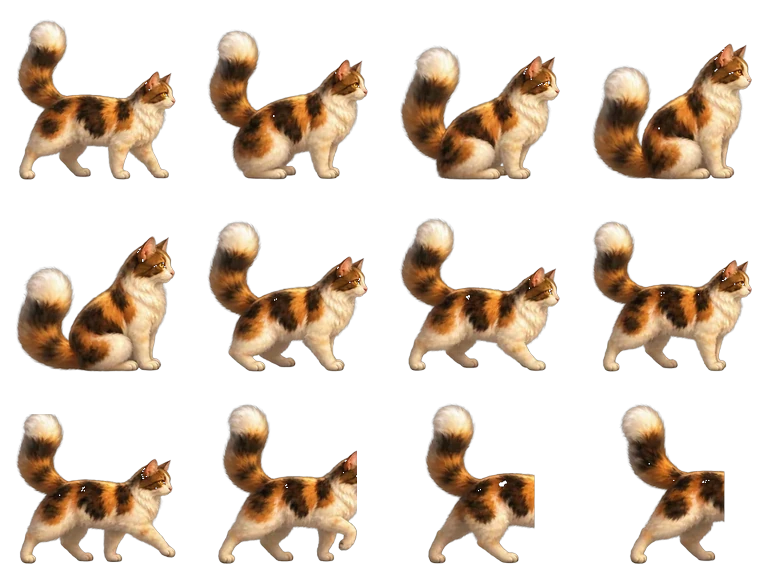
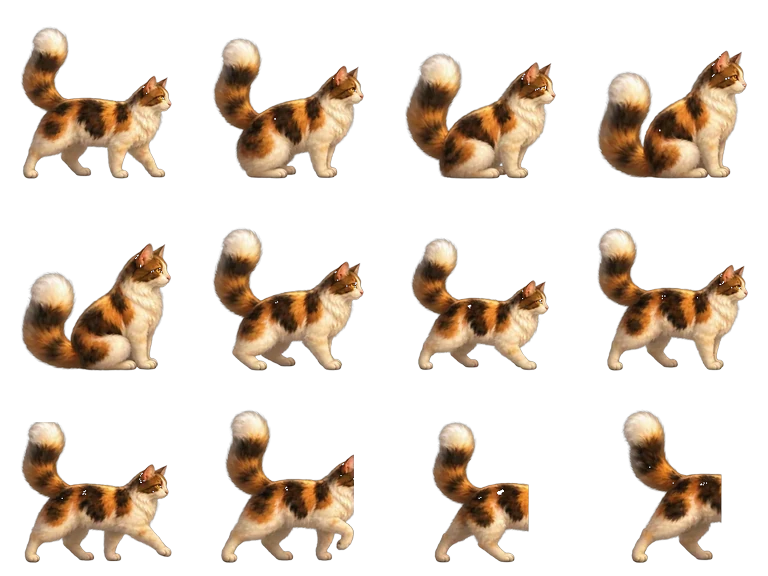
Give the cat one scale, a stride that grips, and less to do
Four complaints, the first of them mine to answer for.

The size changed with the pose because my previous repack fitted every
frame to 84% of its own cell. A curled sleeping cat is naturally short;
filling the cell made it as tall as a standing one, so every change of
pose was a change of size. The source art has the same flaw more gently -
each pose drawn to fill its frame, widths between 88% and 95% whatever the
cat was doing.

Repacked from the originals at one scale for every frame in every sheet,
sized so the tallest pose fits, all on a common baseline. Heights now run
50.9% for a curled sleep to 77% for a doorway entrance: the poses differ
because the cat does, not because the packing does.

The walk slid because the legs ran on a clock and the body did not. Frames
advanced on elapsed time while travel speed varies, and the approach slows
near an anchor - so the feet kept stepping while the cat barely moved. The
frame is driven by distance now: one stride is always 1.11% of ground at
any speed.

It also moved too fast for the scene. Crossing the yard is 9.1s rather
than 5.4. And it had too much to do: eight resting behaviours, most of
them illegible at this size, down to four - sit, loaf, curl-sleep, groom.
The five places per scene stay, because places are not actions.

Smaller too, 5.2-6.8% of the scene rather than 6.4-8.6%, so it sits in the
picture rather than on it.

356 tests, 0 failures. Cache lantern-alley-v165.

diff --git a/home-pet.js b/home-pet.js
@@ -12,19 +12,18 @@
    * between two anchors can leave the ground. */
   var SCENES = {
     yard: [
-      {id:"yard-door", x:50, y:59, kind:"door", behaviors:["look"]},
-      {id:"yard-shade", x:17, y:72, kind:"shade", behaviors:["loaf","curl-sleep","side-sleep"]},
-      {id:"yard-rock", x:38, y:75, kind:"rock", behaviors:["sniff","sit","look"]},
-      {id:"yard-path", x:55, y:80, kind:"path", behaviors:["sit","groom"]},
-      {id:"yard-veranda", x:76, y:64, kind:"veranda", behaviors:["loaf","groom","look"]},
-      {id:"yard-play", x:64, y:74, kind:"garden", behaviors:["play","sniff","stretch"]}
+      {id:"yard-door", x:50, y:59, kind:"door", behaviors:["sit"]},
+      {id:"yard-shade", x:17, y:72, kind:"shade", behaviors:["curl-sleep","loaf"]},
+      {id:"yard-rock", x:38, y:75, kind:"rock", behaviors:["sit","groom"]},
+      {id:"yard-path", x:55, y:80, kind:"path", behaviors:["sit","loaf"]},
+      {id:"yard-veranda", x:76, y:64, kind:"veranda", behaviors:["loaf","groom"]}
     ],
     interior: [
-      {id:"interior-door", x:50, y:74, kind:"door", behaviors:["look"]},
-      {id:"interior-cushion", x:36, y:83, kind:"furniture", behaviors:["curl-sleep","side-sleep","loaf"]},
-      {id:"interior-window", x:22, y:78, kind:"window", behaviors:["look","groom"]},
-      {id:"interior-center", x:55, y:88, kind:"tatami", behaviors:["sit","play","stretch"]},
-      {id:"interior-alcove", x:73, y:79, kind:"alcove", behaviors:["sniff","sit"]}
+      {id:"interior-door", x:50, y:74, kind:"door", behaviors:["sit"]},
+      {id:"interior-cushion", x:36, y:83, kind:"furniture", behaviors:["curl-sleep","loaf"]},
+      {id:"interior-window", x:22, y:78, kind:"window", behaviors:["sit","groom"]},
+      {id:"interior-center", x:55, y:88, kind:"tatami", behaviors:["loaf","groom"]},
+      {id:"interior-alcove", x:73, y:79, kind:"alcove", behaviors:["sit"]}
     ]
   };
 
@@ -54,8 +53,12 @@
    * the back to y=88 at the front; this maps that onto the approved 6-9% band
    * and clamps, so a position outside the authored range cannot produce an
    * absurd size. */
-  var PET_MIN_WIDTH = 6.4;
-  var PET_MAX_WIDTH = 8.6;
+  /* One stride of the eight-frame cycle, in scene-percent. Smaller means the
+   * legs work harder over the same ground. */
+  var STRIDE = 1.15;
+
+  var PET_MIN_WIDTH = 5.2;
+  var PET_MAX_WIDTH = 6.8;
   var PET_NEAR_Y = 90;
   var PET_FAR_Y = 58;
 
@@ -117,7 +120,7 @@
       * anchor instead of hitting it. No extra state: the distance left is the
       * only input. */
     var approach = Math.min(1, distance / 14);
-    var travel = elapsed * (0.0016 + 0.0044 * approach);
+    var travel = elapsed * (0.0009 + 0.0022 * approach);
     if(distance <= travel || distance === 0){
       next.x = target.x;
       next.y = target.y;
@@ -130,8 +133,15 @@
     next.x += dx / distance * travel;
     next.y += dy / distance * travel;
     next.behavior = "walk";
-    // 90ms was eleven poses a second for a walking cat. 160 is a walk.
-    next.frame = Math.floor(next.clock / 160) % 8;
+    /* The stride follows the ground, not a clock.
+     *
+     * Frames advanced on elapsed time, so the legs cycled at a fixed rate while
+     * the body moved at a variable one - and since the approach slows near an
+     * anchor, the feet kept stepping while the cat barely moved. That mismatch
+     * is what reads as sliding. Tying the frame to distance covered means one
+     * stride is always the same distance travelled, at any speed. */
+    next.walked = (next.walked || 0) + travel;
+    next.frame = Math.floor(next.walked / STRIDE) % 8;
     return next;
   }
 

diff --git a/index.html b/index.html
@@ -16,7 +16,7 @@
 <link rel="preconnect" href="https://fonts.googleapis.com">
 <link rel="preconnect" href="https://fonts.gstatic.com" crossorigin>
 <link href="https://fonts.googleapis.com/css2?family=Shippori+Mincho:wght@400;600;800&family=Zen+Maru+Gothic:wght@400;500;700&display=swap" rel="stylesheet">
-<link rel="stylesheet" href="styles.css?v=164">
+<link rel="stylesheet" href="styles.css?v=165">
 </head>
 <body>
 
@@ -215,31 +215,31 @@
   <footer class="credits">Lantern Alley &middot; a small Japanese story-walk</footer>
 </div>
 
-<script src="curriculum-catalog.js?v=164"></script>
-<script src="learning-content.js?v=164"></script>
-<script src="review-engine.js?v=164"></script>
-<script src="learning-progress.js?v=164"></script>
-<script src="learning-economy.js?v=164"></script>
-    <script src="learning-gloss.js?v=164"></script>
-    <script src="home-room.js?v=164"></script>
-    <script src="home-decor.js?v=164"></script>
-    <script src="home-garden.js?v=164"></script>
-    <script src="home-pet.js?v=164"></script>
-    <script src="daily-practice.js?v=164"></script>
-    <script src="review-mode.js?v=164"></script>
-<script src="question-renderer.js?v=164"></script>
-<script src="catalog-practice.js?v=164"></script>
-<script src="entrance-stage-logic.js?v=164"></script>
-<script src="moonview-inn-interactions.js?v=164"></script>
-<script src="n2-home-inn-stage.js?v=164"></script>
-<script src="n2-inn-episodes.js?v=164"></script>
-    <script src="n2-market-episodes.js?v=164"></script>
-    <script src="n2-teahouse-episodes.js?v=164"></script>
-    <script src="n2-station-episodes.js?v=164"></script>
-    <script src="n2-shrine-episodes.js?v=164"></script>
-<script src="audio-index.js?v=164"></script>
-<script src="lantern-map.js?v=164"></script>
-<script src="app.js?v=164"></script>
+<script src="curriculum-catalog.js?v=165"></script>
+<script src="learning-content.js?v=165"></script>
+<script src="review-engine.js?v=165"></script>
+<script src="learning-progress.js?v=165"></script>
+<script src="learning-economy.js?v=165"></script>
+    <script src="learning-gloss.js?v=165"></script>
+    <script src="home-room.js?v=165"></script>
+    <script src="home-decor.js?v=165"></script>
+    <script src="home-garden.js?v=165"></script>
+    <script src="home-pet.js?v=165"></script>
+    <script src="daily-practice.js?v=165"></script>
+    <script src="review-mode.js?v=165"></script>
+<script src="question-renderer.js?v=165"></script>
+<script src="catalog-practice.js?v=165"></script>
+<script src="entrance-stage-logic.js?v=165"></script>
+<script src="moonview-inn-interactions.js?v=165"></script>
+<script src="n2-home-inn-stage.js?v=165"></script>
+<script src="n2-inn-episodes.js?v=165"></script>
+    <script src="n2-market-episodes.js?v=165"></script>
+    <script src="n2-teahouse-episodes.js?v=165"></script>
+    <script src="n2-station-episodes.js?v=165"></script>
+    <script src="n2-shrine-episodes.js?v=165"></script>
+<script src="audio-index.js?v=165"></script>
+<script src="lantern-map.js?v=165"></script>
+<script src="app.js?v=165"></script>
 
 <script>
   // Service workers need http(s); opening this file directly with file://

diff --git a/sw.js b/sw.js
@@ -7,7 +7,7 @@
  * Bump CACHE_VERSION whenever any shell file changes, or returning players
  * will keep the old build.
  */
-var CACHE_VERSION = "lantern-alley-v164";
+var CACHE_VERSION = "lantern-alley-v165";
 
 // audio-index.js assigns to `self`, so the worker and the page share one list
 // of clip paths. Importing it here means new lines are cached automatically

diff --git a/PROJECT-HANDOFF.md b/PROJECT-HANDOFF.md
@@ -277,6 +277,24 @@ This was not hypothetical: a freshly edited `lantern-map.js` was served from the
 
 ## 9. Change log and reasons
 
+### 2026-08-29 - The cat: one scale, a stride that grips the ground, and less to do
+
+Four complaints, and the first was mine to answer for.
+
+**The size changed with the pose because the previous repack fitted every frame to 84% of its own cell.** A curled sleeping cat is naturally short; scaling it to fill the cell made it as tall as a standing one, so every change of pose was a change of size. The source art has the same flaw more gently - each pose was drawn to fill its frame, widths sitting between 88% and 95% whatever the cat was doing.
+
+Repacked from the originals at **one scale for every frame in every sheet**, chosen so the tallest pose fits, all standing on a common baseline. Heights now run 50.9% for a curled sleep to 77% for a doorway entrance, which is the point: the poses differ because the cat differs, not because the packing does.
+
+**The walk slid because the legs ran on a clock and the body did not.** Frames advanced on elapsed time while travel speed varies - and since the approach slows near an anchor, the feet kept stepping while the cat barely moved. The frame is now driven by distance covered, so **one stride is always 1.11% of ground** at any speed. That is the difference between walking and being dragged.
+
+**It moved too fast for the scene.** Crossing the yard is 9.1 seconds now rather than 5.4, at about 2% of the scene per second.
+
+**It had too much to do.** Eight resting behaviours across the two scenes - play, stretch, sniff, look, side-sleep among them - most of which read as noise at this size. Four remain: sit, loaf, curl-sleep, groom. The five places per scene stay, because places are not actions; a test guards that count, and the point was to shorten the list of things the cat does, not to shrink its world.
+
+**And it is smaller**, 5.2-6.8% of the scene rather than 6.4-8.6%, so it sits in the picture rather than on top of it.
+
+356 tests, 0 failures. Cache `lantern-alley-v165`.
+
 ### 2026-08-29 - The cat stops resizing, walks on the floor, and the shop stops selling drawings
 
 Four things from a screenshot of the room.
